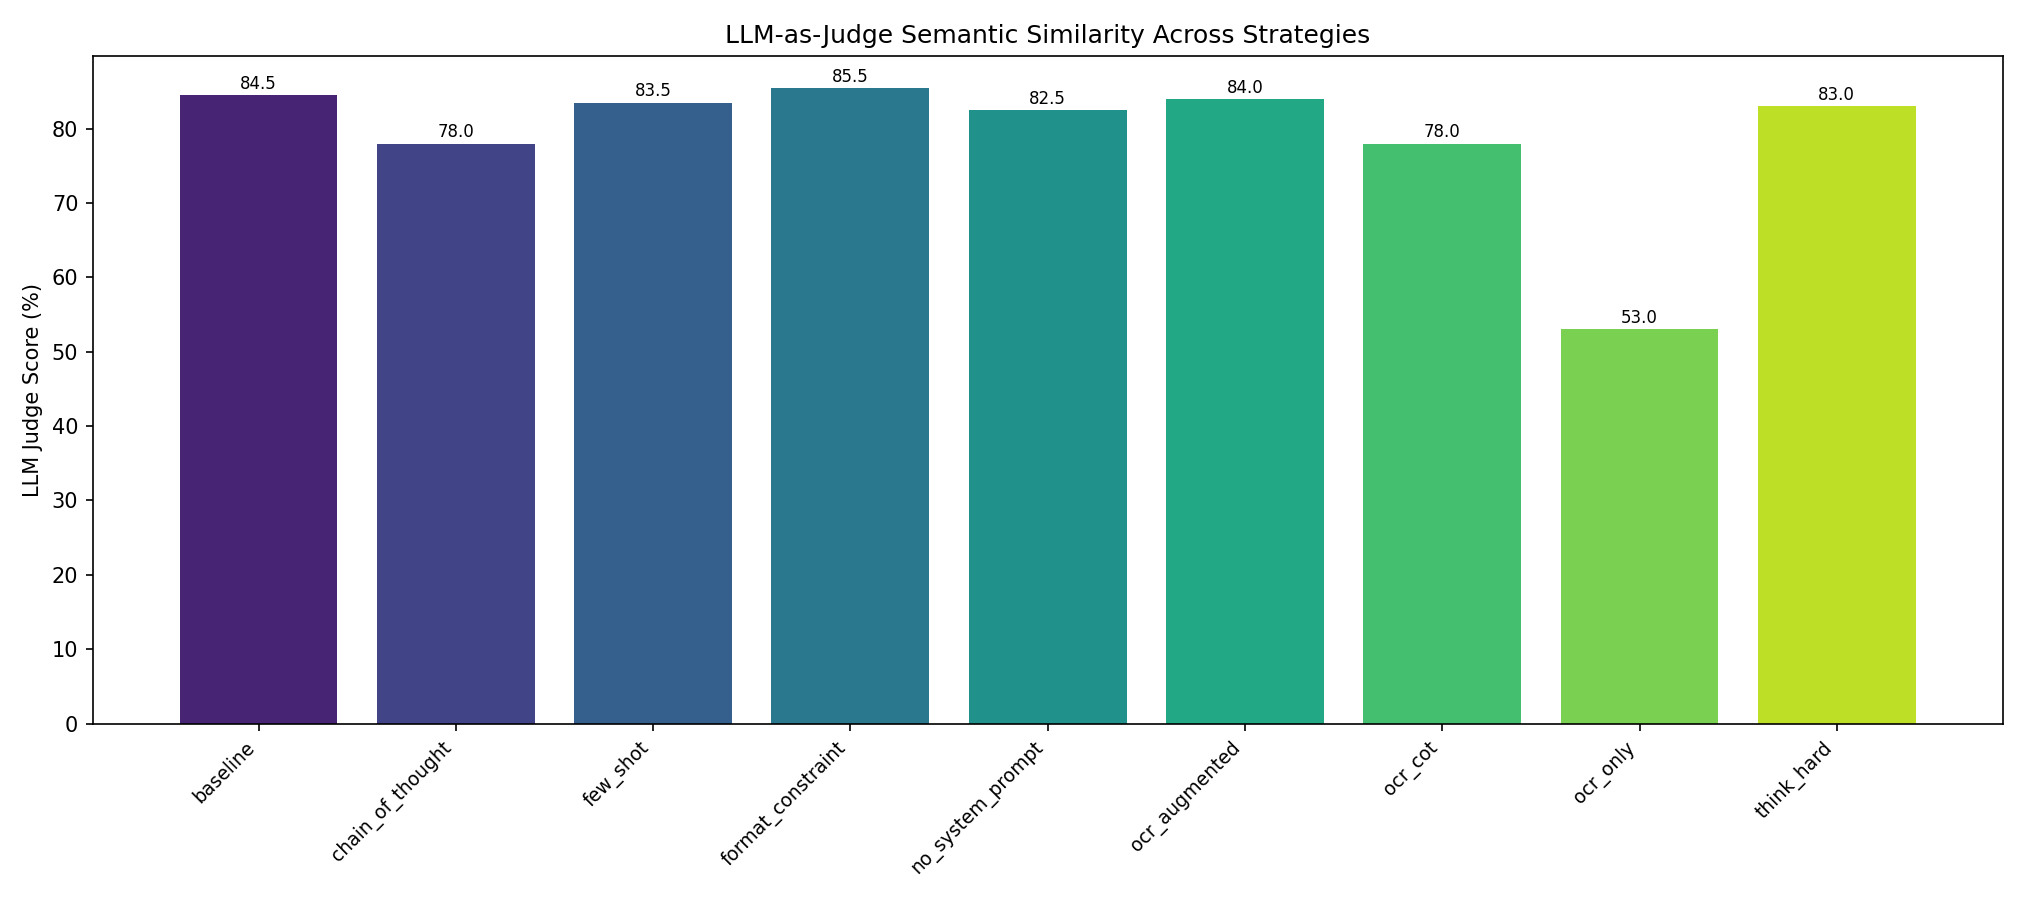
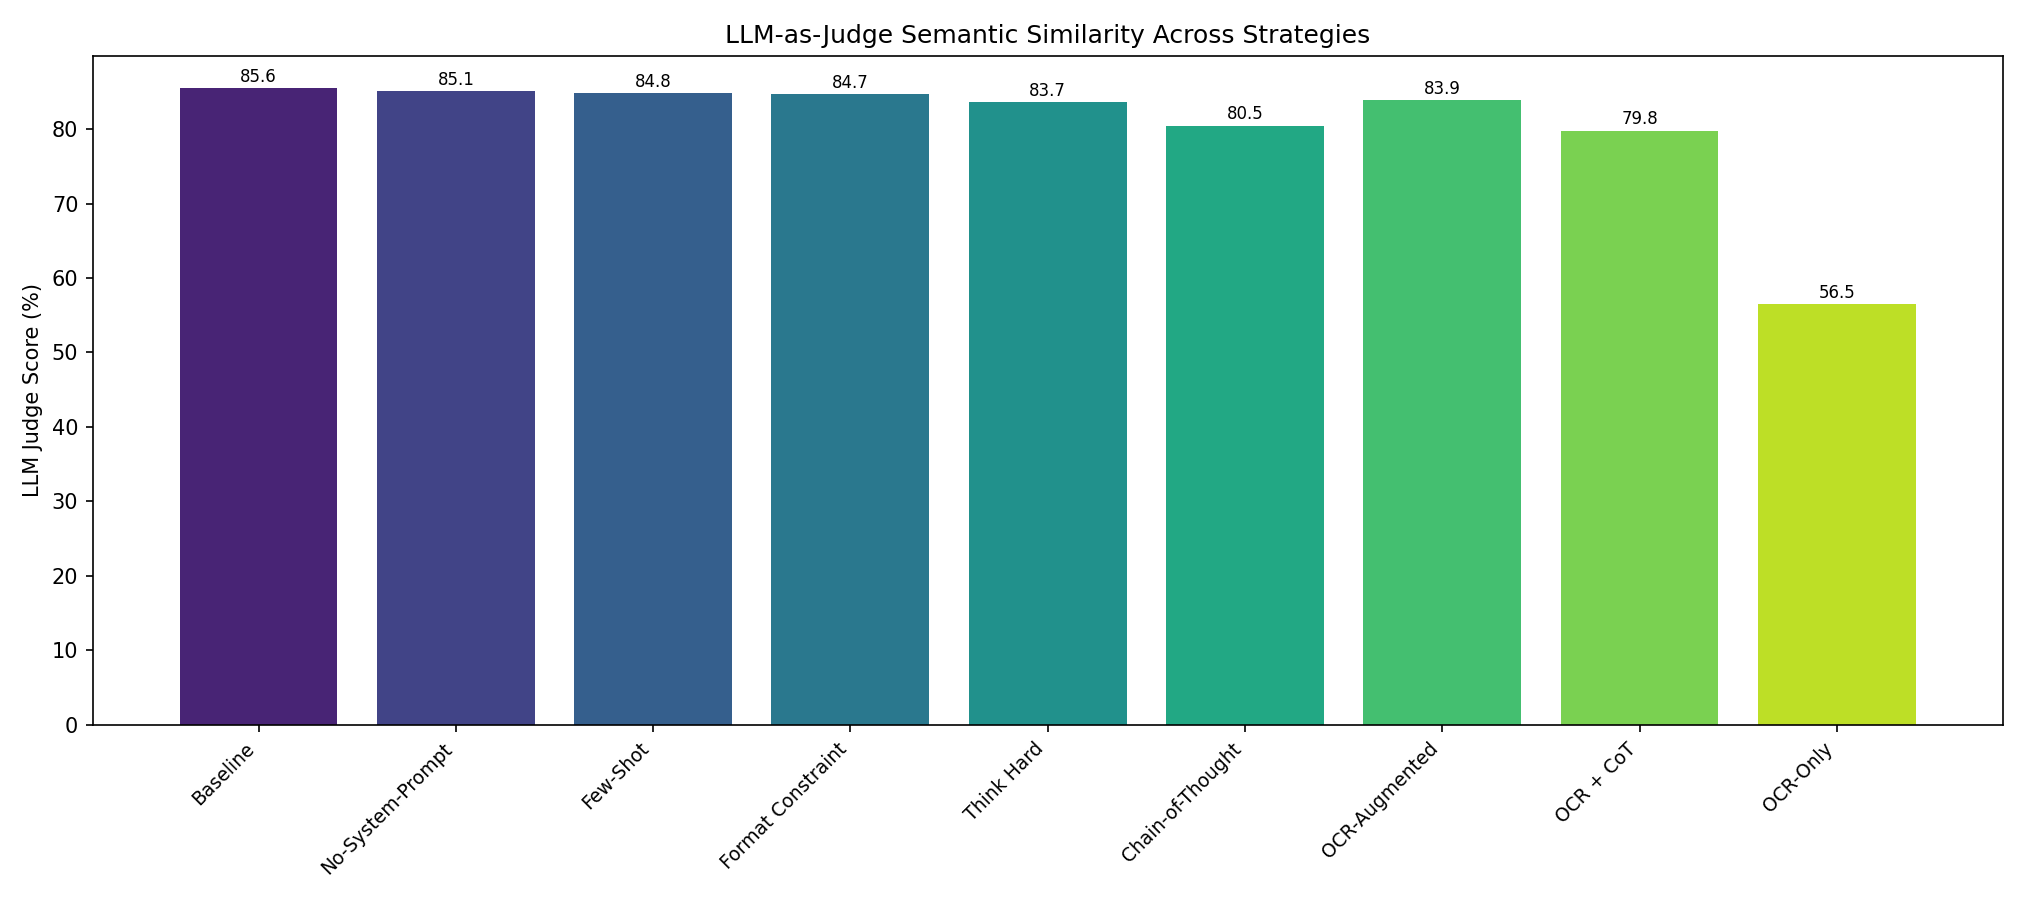
Add full-dataset LLM-as-a-Judge scores, consistent strategy ordering in plots
- Run LLM judge on all 5000 validation samples (was capped at 200)
- Add standalone run_llm_judge.py script
- Define canonical strategy order and display names in run_analysis.py,
  applied consistently across all bar charts, heatmap, and TSV exports

diff --git a/scripts/run_analysis.py b/scripts/run_analysis.py
@@ -16,6 +16,44 @@ import seaborn as sns
 
 from src.utils import load_json, ensure_dir, setup_logging
 
+# Canonical strategy order used for all plots and tables.
+# Grouped: baseline → prompt tweaks → reasoning → OCR variants → ablation
+STRATEGY_ORDER = [
+    "baseline",
+    "no_system_prompt",
+    "few_shot",
+    "format_constraint",
+    "think_hard",
+    "chain_of_thought",
+    "ocr_augmented",
+    "ocr_cot",
+    "ocr_only",
+]
+
+DISPLAY_NAMES = {
+    "baseline": "Baseline",
+    "no_system_prompt": "No-System-Prompt",
+    "few_shot": "Few-Shot",
+    "format_constraint": "Format Constraint",
+    "think_hard": "Think Hard",
+    "chain_of_thought": "Chain-of-Thought",
+    "ocr_augmented": "OCR-Augmented",
+    "ocr_cot": "OCR + CoT",
+    "ocr_only": "OCR-Only",
+}
+
+
+def _strategy_sort_key(name: str) -> tuple:
+    """Return a sort key that follows STRATEGY_ORDER.
+
+    Works on both raw keys ('baseline') and experiment paths
+    ('prompt_eng/baseline/validation').
+    """
+    for i, s in enumerate(STRATEGY_ORDER):
+        if s in name:
+            return (i, name)
+    return (len(STRATEGY_ORDER), name)
+
 
 def load_all_results(results_dir: Path) -> dict:
     """Scan the results directory and load all metrics.json files."""
@@ -64,11 +102,11 @@ def plot_accuracy_comparison(experiments: dict, output_dir: Path):
     names = []
     acc_vals = []
     judge_vals = []
-    for name, metrics in sorted(experiments.items()):
+    for name, metrics in sorted(experiments.items(), key=lambda kv: _strategy_sort_key(kv[0])):
         if "accuracy" in metrics:
             short = name.replace("prompt_eng/", "").replace("zero_shot/", "ZS: ").replace("finetune/", "FT: ")
             short = short.replace("/validation", "").replace("/test", " (test)")
-            names.append(short)
+            names.append(DISPLAY_NAMES.get(short, short))
             acc_vals.append(metrics["accuracy"])
             judge_vals.append(metrics.get("llm_judge", 0) or 0)
 
@@ -116,10 +154,10 @@ def plot_metrics_heatmap(experiments: dict, output_dir: Path):
 
     names = []
     data = []
-    for name, metrics in sorted(experiments.items()):
-        short = name.replace("prompt_eng/", "PE: ").replace("zero_shot/", "ZS: ").replace("finetune/", "FT: ")
+    for name, metrics in sorted(experiments.items(), key=lambda kv: _strategy_sort_key(kv[0])):
+        short = name.replace("prompt_eng/", "").replace("zero_shot/", "ZS: ").replace("finetune/", "FT: ")
         short = short.replace("/validation", "").replace("/test", " (test)")
-        names.append(short)
+        names.append(DISPLAY_NAMES.get(short, short))
         data.append([metrics.get(m, 0) for m in available_metrics])
 
     fig, ax = plt.subplots(figsize=(max(8, len(available_metrics) * 2), max(4, len(names) * 0.6)))
@@ -508,7 +546,7 @@ def analyze_errors(results_dir: Path, output_dir: Path):
     error_type_order = ["wrong_answer", "partial_match", "verbose", "no_answer"]
     error_type_order = [e for e in error_type_order if e in all_error_types]
 
-    strategies = sorted(strategy_errors.keys())
+    strategies = sorted(strategy_errors.keys(), key=_strategy_sort_key)
     x = np.arange(len(strategies))
     n_types = len(error_type_order)
     width = 0.8 / max(n_types, 1)
@@ -626,11 +664,11 @@ def plot_llm_judge(experiments: dict, output_dir: Path):
     """Bar chart of LLM-as-judge scores across strategies."""
     names = []
     scores = []
-    for name, metrics in sorted(experiments.items()):
+    for name, metrics in sorted(experiments.items(), key=lambda kv: _strategy_sort_key(kv[0])):
         if metrics.get("llm_judge") is not None:
             short = name.replace("prompt_eng/", "").replace("zero_shot/", "ZS: ").replace("finetune/", "FT: ")
             short = short.replace("/validation", "").replace("/test", " (test)")
-            names.append(short)
+            names.append(DISPLAY_NAMES.get(short, short))
             scores.append(metrics["llm_judge"])
 
     if not names:
@@ -664,23 +702,15 @@ def save_json(data, path):
 
 def export_metrics_tsv(experiments: dict, output_dir: Path):
     """Export full metrics comparison as a TSV file."""
-    strategy_order = ["baseline", "no_system_prompt", "ocr_augmented", "few_shot", "format_constraint", "think_hard", "ocr_cot", "chain_of_thought", "ocr_only"]
-    display_names = {
-        "baseline": "Baseline", "no_system_prompt": "No-System-Prompt",
-        "ocr_augmented": "OCR-Augmented", "ocr_cot": "OCR + CoT",
-        "chain_of_thought": "Chain-of-Thought", "ocr_only": "OCR-Only",
-        "few_shot": "Few-Shot", "format_constraint": "Format Constraint",
-        "think_hard": "Think Hard",
-    }
     metric_keys = ["accuracy", "vqa_accuracy", "bleu", "meteor", "rouge_l", "f1", "precision", "recall", "llm_judge"]
     headers = ["Strategy", "Accuracy", "VQA Acc", "BLEU", "METEOR", "ROUGE-L", "F1", "Precision", "Recall", "LLM Judge"]
 
     rows = []
-    for strategy in strategy_order:
+    for strategy in STRATEGY_ORDER:
         for key, metrics in experiments.items():
             if strategy in key:
                 vals = [f"{metrics.get(m, 0):.1f}" for m in metric_keys]
-                rows.append([display_names.get(strategy, strategy)] + vals)
+                rows.append([DISPLAY_NAMES.get(strategy, strategy)] + vals)
                 break
 
     path = output_dir / "full_metrics_comparison.tsv"
@@ -699,27 +729,19 @@ def export_error_breakdown_tsv(results_dir: Path, output_dir: Path):
         return
 
     data = load_json(error_json)
-    strategy_order = ["baseline", "no_system_prompt", "ocr_augmented", "few_shot", "format_constraint", "think_hard", "ocr_cot", "chain_of_thought", "ocr_only"]
-    display_names = {
-        "baseline": "Baseline", "no_system_prompt": "No-System-Prompt",
-        "ocr_augmented": "OCR-Augmented", "ocr_cot": "OCR + CoT",
-        "chain_of_thought": "Chain-of-Thought", "ocr_only": "OCR-Only",
-        "few_shot": "Few-Shot", "format_constraint": "Format Constraint",
-        "think_hard": "Think Hard",
-    }
     error_types = ["wrong_answer", "partial_match", "verbose", "no_answer"]
     headers = ["Strategy", "Total", "Correct", "Correct %",
                "Wrong Answer", "Wrong Answer %", "Partial Match", "Partial Match %",
                "Verbose", "Verbose %", "No Answer", "No Answer %"]
 
     rows = []
-    for strategy in strategy_order:
+    for strategy in STRATEGY_ORDER:
         if strategy not in data:
             continue
         d = data[strategy]
         total = d["total"]
         correct = d["correct"]
-        row = [display_names.get(strategy, strategy), str(total), str(correct), f"{100*correct/total:.1f}"]
+        row = [DISPLAY_NAMES.get(strategy, strategy), str(total), str(correct), f"{100*correct/total:.1f}"]
         for etype in error_types:
             count = d["error_types"].get(etype, 0)
             row.extend([str(count), f"{100*count/total:.1f}"])

diff --git a/scripts/run_llm_judge.py b/scripts/run_llm_judge.py
@@ -1,0 +1,71 @@
+#!/usr/bin/env python3
+"""Re-run LLM-as-a-Judge on all predictions for all strategies (full dataset)."""
+
+import argparse
+import sys
+from pathlib import Path
+from tqdm import tqdm
+
+sys.path.insert(0, str(Path(__file__).resolve().parent.parent))
+
+from src.utils import load_json, save_json, setup_logging, load_config
+from src.model import load_model
+from src.evaluate import compute_llm_judge
+
+
+def main():
+    parser = argparse.ArgumentParser(description="Run LLM judge on all strategies")
+    parser.add_argument("--config", type=str, default="configs/base.yaml")
+    parser.add_argument("--dtype", type=str, default="4bit", choices=["bfloat16", "4bit"])
+    parser.add_argument("--strategies", nargs="+", default=None,
+                        help="Strategies to evaluate (default: all found)")
+    args = parser.parse_args()
+
+    setup_logging()
+
+    config = load_config(args.config)
+    model_cfg = config.get("model", {})
+
+    model, processor = load_model(
+        model_name=model_cfg.get("name", "Qwen/Qwen2.5-VL-3B-Instruct"),
+        dtype=args.dtype,
+        device_map=model_cfg.get("device_map", "auto"),
+    )
+
+    results_dir = Path("results/prompt_eng")
+    strategies = args.strategies
+    if strategies is None:
+        strategies = sorted(
+            d.name for d in results_dir.iterdir()
+            if d.is_dir() and (d / "validation" / "predictions.json").exists()
+        )
+
+    for strategy in strategies:
+        pred_file = results_dir / strategy / "validation" / "predictions.json"
+        metrics_file = results_dir / strategy / "validation" / "metrics.json"
+
+        if not pred_file.exists():
+            print(f"Skipping {strategy}: no predictions.json")
+            continue
+
+        preds = load_json(pred_file)
+        metrics = load_json(metrics_file) if metrics_file.exists() else {}
+
+        pred_strs = [p["prediction"] for p in preds]
+        gt_lists = [p["ground_truths"] for p in preds]
+
+        print(f"\n{'='*60}")
+        print(f"  LLM Judge: {strategy} ({len(preds)} samples)")
+        print(f"{'='*60}")
+
+        judge_result = compute_llm_judge(pred_strs, gt_lists, model=model, processor=processor)
+        print(f"  Score: {judge_result['llm_judge']:.1f}% ({judge_result['llm_judge_n_samples']} samples)")
+
+        metrics["llm_judge"] = judge_result["llm_judge"]
+        metrics["llm_judge_n_samples"] = judge_result["llm_judge_n_samples"]
+        save_json(metrics, metrics_file)
+        print(f"  Updated {metrics_file}")
+
+
+if __name__ == "__main__":
+    main()

diff --git a/src/evaluate.py b/src/evaluate.py
@@ -181,11 +181,12 @@ def compute_llm_judge(
     ground_truths: list[list[str]],
     model=None,
     processor=None,
+    max_samples: int | None = None,
 ) -> dict:
     """Use the VLM itself as a judge to score semantic similarity.
 
     Asks the model to rate prediction vs ground truth on a 0-1 scale.
-    Only runs on a sample to save compute.
+    Runs on all samples by default; set max_samples to limit.
     """
     if model is None or processor is None:
         logger.warning("LLM judge requires model and processor — skipping")
@@ -193,7 +194,7 @@ def compute_llm_judge(
 
     from src.model import generate_answer
 
-    sample_size = min(200, len(predictions))
+    sample_size = len(predictions) if max_samples is None else min(max_samples, len(predictions))
     step = max(1, len(predictions) // sample_size)
     scores = []
 
